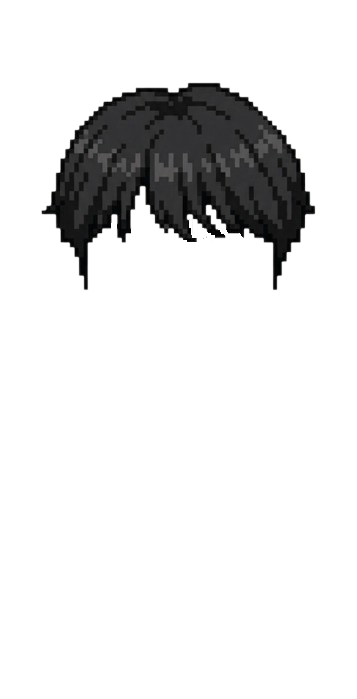
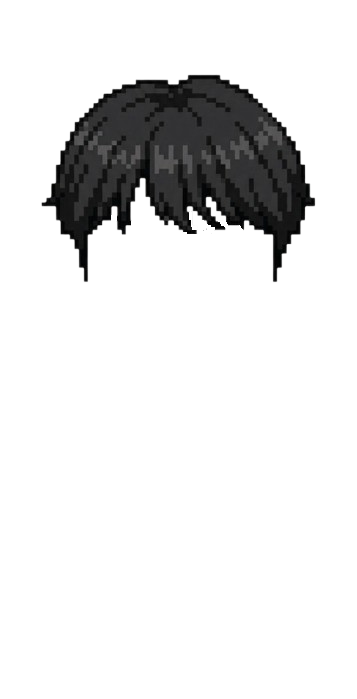
fix: 배경화면 추가

Changed region(s): [[0.1232, 0.0901, 0.8936, 0.3605], [0.7703, 0.3605, 0.8011, 0.4206], [0.2157, 0.3605, 0.2465, 0.4206]]

diff --git a/app/frontend/src/screens/child/home/ChildHomeScreen.jsx b/app/frontend/src/screens/child/home/ChildHomeScreen.jsx
@@ -1,5 +1,5 @@
 import React, { useState, useContext, useEffect } from 'react';
-import { View, StyleSheet, TouchableOpacity, SafeAreaView, Dimensions, Image, Modal, Platform, StatusBar } from 'react-native';
+import { View, StyleSheet, TouchableOpacity, SafeAreaView, Dimensions, Image, ImageBackground, Modal, Platform, StatusBar } from 'react-native';
 import { scale, verticalScale } from 'react-native-size-matters';
 import ChildAvatar from '../../../components/child/avatar/ChildAvatar';
 import { AvatarContext } from '../../../components/child/avatar/AvatarContext';
@@ -111,51 +111,56 @@ const ChildHomeScreen = ({ navigation }) => {
 
                 <View style={styles.divider} />
 
-                {/* 친구, 알림 버튼 */}
-                <View style={styles.actionRow}>
-                    <TouchableOpacity style={styles.pillButton} onPress={() => navigation.navigate('FriendList')}>
-                        <CustomText style={styles.pillButtonText}>친구</CustomText>
-                    </TouchableOpacity>
-                    <TouchableOpacity style={styles.pillButton}>
-                        <CustomText style={styles.pillButtonText}>알림</CustomText>
-                        {homeData?.hasUnreadNotification && <View style={styles.redDot} />}
-                    </TouchableOpacity>
-                </View>
-
-                {/* 내가 기부한 장소 카드 */}
-                <TouchableOpacity style={styles.donationCard} activeOpacity={0.9} onPress={() => navigation.navigate('BadgeMap')}>
-                    <View style={styles.donationBadge}>
-                        <CustomText style={styles.donationBadgeText}>내가 기부한 장소</CustomText>
-                    </View>
-                    <CustomText style={styles.donationContentText}>준비 중</CustomText>
-                </TouchableOpacity>
-
-                {/* 아바타 영역 */}
-                <View style={styles.avatarSection}>
-                    <CustomText style={styles.levelText}>LV.{homeData ? homeData.level : 1} | 소비점수 {homeData ? homeData.score : 0}점</CustomText>
-                    <CustomText style={styles.nameText}>{user ? user.name : '김싸피'}</CustomText>
-
-                    <View style={styles.avatarActionRow}>
-                        <TouchableOpacity style={styles.avatarActionBtn} onPress={() => navigation.navigate('AvatarDictionaryScreen')}>
-                            <CustomText style={styles.avatarActionText}>내 도감</CustomText>
+                <ImageBackground
+                    source={require('../../../assets/background.png')}
+                    style={styles.contentBackground}
+                    resizeMode="cover"
+                >
+                    {/* 친구, 알림 버튼 */}
+                    <View style={styles.actionRow}>
+                        <TouchableOpacity style={styles.pillButton} onPress={() => navigation.navigate('FriendList')}>
+                            <CustomText style={styles.pillButtonText}>친구</CustomText>
                         </TouchableOpacity>
-                        <TouchableOpacity style={styles.avatarActionBtn} onPress={() => navigation.navigate('Wardrobe')}>
-                            <CustomText style={styles.avatarActionText}>꾸미기</CustomText>
+                        <TouchableOpacity style={styles.pillButton}>
+                            <CustomText style={styles.pillButtonText}>알림</CustomText>
+                            {homeData?.hasUnreadNotification && <View style={styles.redDot} />}
                         </TouchableOpacity>
                     </View>
 
-                    <View style={styles.avatarWrapper}>
-                        <ChildAvatar equipState={equipState} size={avatarSize} />
+                    {/* 내가 기부한 장소 카드 */}
+                    <TouchableOpacity style={styles.donationCard} activeOpacity={0.9} onPress={() => navigation.navigate('BadgeMap')}>
+                        <View style={styles.donationBadge}>
+                            <CustomText style={styles.donationBadgeText}>내가 기부한 장소</CustomText>
+                        </View>
+                        <CustomText style={styles.donationContentText}>준비 중</CustomText>
+                    </TouchableOpacity>
 
-                        {/* 펫 배치 (백엔드 펫 데이터가 있을 때만 렌더링되도록 사전 준비) */}
-                        {homeData?.pet && (
-                            <View style={{ position: 'absolute', right: scale(-120), bottom: verticalScale(-115) }}>
-                                <Pet petType={homeData.pet.type || 'shiba'} size={scale(350)} />
-                            </View>
-                        )}
+                    {/* 아바타 영역 */}
+                    <View style={styles.avatarSection}>
+                        <CustomText style={styles.levelText}>LV.{homeData ? homeData.level : 1} | 소비점수 {homeData ? homeData.score : 0}점</CustomText>
+                        <CustomText style={styles.nameText}>{user ? user.name : '김싸피'}</CustomText>
+
+                        <View style={styles.avatarActionRow}>
+                            <TouchableOpacity style={styles.avatarActionBtn} onPress={() => navigation.navigate('AvatarDictionaryScreen')}>
+                                <CustomText style={styles.avatarActionText}>내 도감</CustomText>
+                            </TouchableOpacity>
+                            <TouchableOpacity style={styles.avatarActionBtn} onPress={() => navigation.navigate('Wardrobe')}>
+                                <CustomText style={styles.avatarActionText}>꾸미기</CustomText>
+                            </TouchableOpacity>
+                        </View>
+
+                        <View style={styles.avatarWrapper}>
+                            <ChildAvatar equipState={equipState} size={avatarSize} />
+
+                            {/* 펫 배치 (백엔드 펫 데이터가 있을 때만 렌더링되도록 사전 준비) */}
+                            {homeData?.pet && (
+                                <View style={{ position: 'absolute', right: scale(-120), bottom: verticalScale(-115) }}>
+                                    <Pet petType={homeData.pet.type || 'shiba'} size={scale(350)} />
+                                </View>
+                            )}
+                        </View>
                     </View>
-                </View>
-
+                </ImageBackground>
             </View>
 
             {/* QR 결제 모달 */}
@@ -190,10 +195,14 @@ const styles = StyleSheet.create({
         flex: 1,
         backgroundColor: '#FFFFFF',
     },
+    contentBackground: {
+        flex: 1,
+        width: '100%',
+        paddingTop: verticalScale(16),
+    },
     container: {
         flex: 1,
         paddingTop: verticalScale(16),
-        paddingBottom: verticalScale(10),
     },
     headerRow: {
         flexDirection: 'row',
@@ -242,7 +251,6 @@ const styles = StyleSheet.create({
         height: 1,
         backgroundColor: '#F3F4F6',
         width: '100%',
-        marginBottom: verticalScale(20),
     },
     actionRow: {
         flexDirection: 'row',

diff --git a/app/frontend/src/screens/child/home/AvatarCustomScreen.jsx b/app/frontend/src/screens/child/home/AvatarCustomScreen.jsx
@@ -28,11 +28,16 @@ const AvatarCustomScreen = ({ navigation }) => {
     const [isFacePaintingModalVisible, setFacePaintingModalVisible] = useState(false);
     const [ownedItemIds, setOwnedItemIds] = useState({});
     const [frontendToUuidMap, setFrontendToUuidMap] = useState({});
+    const [userLevel, setUserLevel] = useState(1);
 
-    // 백엔드 아이템 도감 페칭 및 보유 항목 필터링
+    // 백엔드 아이템 도감 페칭 및 레벨 조회
     React.useEffect(() => {
-        const fetchItems = async () => {
+        const fetchItemsAndLevel = async () => {
             try {
+                // 상단 아이템 조회를 위해 사용자 레벨부터 가져옴
+                const homeRes = await api.get('/home');
+                setUserLevel(homeRes.data?.data?.level || 1);
+
                 const res = await api.get('/avatars/items');
                 const items = res.data?.data?.items || [];
 
@@ -55,7 +60,7 @@ const AvatarCustomScreen = ({ navigation }) => {
                 setFrontendToUuidMap(mapF2U);
             } catch (e) { console.error('Avatar Items Fetch Error', e); }
         };
-        fetchItems();
+        fetchItemsAndLevel();
     }, []);
 
     const handleGenderChange = (gender) => {
@@ -103,11 +108,12 @@ const AvatarCustomScreen = ({ navigation }) => {
                 return true;
             });
         }
-        // 보유 중인 아이템만 필터링 (기본 얼굴/헤어 및 레벨 1인 기본장비, none은 무조건 표시)
+        // 보유 중인 아이템만 필터링 (기본템/none/획득아이템 + 자신의 레벨로 자동 해금된 아이템)
         items = items.filter(item => {
             const isEquipCat = ['upper', 'lower', 'hat', 'shoe', 'back', 'outfit', 'pet'].includes(selectedCategory);
             const isBaseOrNone = item.id.includes('base') || item.id === 'none' || item.level === 1;
-            return !isEquipCat || isBaseOrNone || ownedItemIds[item.id];
+            const isLevelUnlocked = item.level <= userLevel && item.level !== 99;
+            return !isEquipCat || isBaseOrNone || ownedItemIds[item.id] || isLevelUnlocked;
         });
 
         return (

diff --git a/app/frontend/src/screens/child/home/AvatarDictionaryScreen.jsx b/app/frontend/src/screens/child/home/AvatarDictionaryScreen.jsx
@@ -150,7 +150,7 @@ const AvatarDictionaryScreen = ({ navigation }) => {
                                 </View>
                                 <CustomText style={[styles.itemName, isLocked && styles.lockedText]}>{item.name}</CustomText>
 
-                                {item.isOwned ? (
+                                {(item.isOwned || !isLocked) ? (
                                     <View style={[styles.statusButton, styles.ownedButton]}>
                                         <CustomText style={styles.ownedButtonText}>획득 완료</CustomText>
                                     </View>
